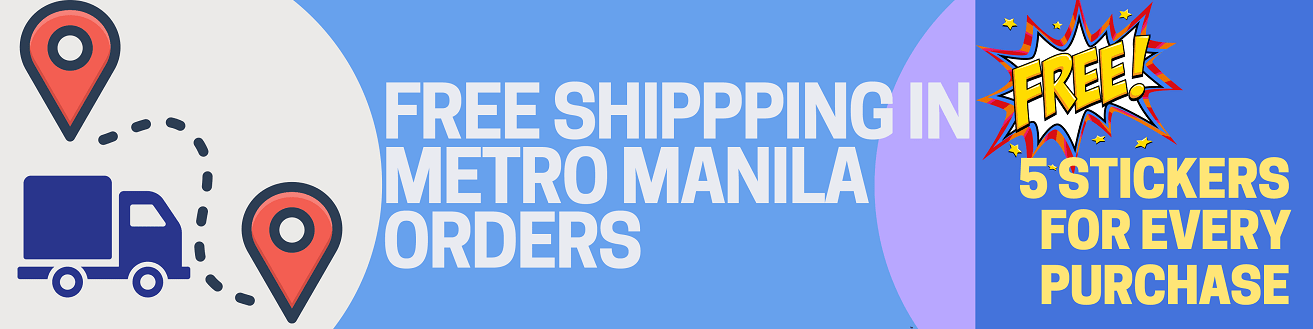
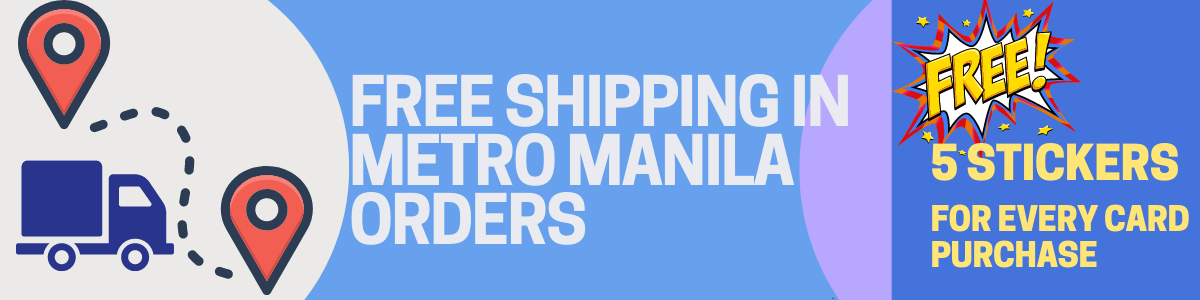
fathersday update

diff --git a/src/app/stickers/stickers.component.html b/src/app/stickers/stickers.component.html
@@ -4,9 +4,9 @@
 
             <div class="row">
                 <div class="col-md-12">
-                    <img src="/assets/images/sticker_banner1.png" class="img-fluid">
+                    <img src="/assets/images/sticker-banner-2.png" class="img-fluid">
                     <br/>
-                    <img src="/assets/images/sticker_banner2.png" class="img-fluid">
+                    <img src="/assets/images/sticker-sub-banner-2.png" class="img-fluid">
                     <br/>
                 </div>
 
@@ -50,10 +50,13 @@
                 <div class="col-12 text-center">
                     <label>{{batchShowing}}</label>
                 </div>
+                  <br />
+                  <br />
+                  <br />
             </div>
             <div class="row">
                 <div class="col-md-12">
-                    <img src="/assets/images/fathers/Free Shipping Banners-min.png">
+                    <img src="/assets/images/fathers/fs-sticker.png">
                 </div>
             </div>
 
@@ -64,12 +67,12 @@
             <div class="row">
                 <div class="col-md-6">
                     <a [routerLink]="['/events']">
-                    <img src="/assets/images/layout2/Sticker Landing_3-min.png">
+                    <img src="/assets/images//fathers/shop-cards.png">
                 </a>
                 </div>
                 <div class="col-md-6">
                     <a [routerLink]="['/gifts']">
-                    <img src="/assets/images/layout2/Sticker Landing_2-min.png">
+                    <img src="/assets/images/fathers/shop-gifts.png">
                 </a>
                 </div>
             </div>

diff --git a/src/app/events/events.component.html b/src/app/events/events.component.html
@@ -8,13 +8,15 @@
                         <img src="{{event.image}}" class="img-fluid">
                         <div class="title">{{event.name}}</div>
                     </div>
-                    <br/>
+                    <br />
+                    <br /> 
+                    <br />
                 </div>
             </div>
             <div class="row">
                 <div class="col-md-12">
                     <br/><br/>
-                    <img src="/assets/images/fathers/Free Shipping Banners-min.png" routerLink="/events" class="img-fluid cursor" style="margin-top:-50px">
+                    <img src="/assets/images/fathers/fs-event.png" routerLink="/events" class="img-fluid cursor" style="margin-top:-50px">
                 </div>
             </div>
 

diff --git a/src/assets/static/PressPage.html b/src/assets/static/PressPage.html
@@ -14,7 +14,7 @@
 <h3>Our Homepage 
 </h3>
 <div style="padding:20px;border:1px solid #ccc">
-<img src="/assets/images/static/ss-homepage.png" class="img-fluid mg-thumbnail">
+<img src="/assets/images/static/ss-homepage-2.png" class="img-fluid mg-thumbnail">
 </div>
 <br/><br/><hr/><br/><br/>
 <h3>Social Media Accounts
@@ -56,7 +56,7 @@
  
 </div>
 <div class="col-md-4 text-center">
-   <a href="https://www.instagram.com/fibeigreetings_/ target="_blank">
+   <a href="https://www.instagram.com/fibeigreetings_/"  target="_blank">
      <img src="/assets/images/static/sm-instagram.png" class="img-fluid mg-thumbnail">    <h3>Instagram</h3>
    </a>
 

diff --git a/src/app/cards/cards.component.html b/src/app/cards/cards.component.html
@@ -87,11 +87,11 @@
                 <div class="col-md-12 text-center">
                     <label>{{batchShowing}}</label>
                     <br />
-                    <br />
+                    <br />  <br />
                 </div>
                 <div class="col-md-12">
                     <br /><br />
-                    <img src="/assets/images/fathers/Free Shipping Banners-min.png" routerLink="/events"
+                    <img src="/assets/images/fathers/Free Shipping Banners-min-2.png" routerLink="/events"
                         class="img-fluid cursor" style="margin-top:-50px">
                 </div>
             </div>

diff --git a/src/app/pages/footer/footer.component.html b/src/app/pages/footer/footer.component.html
@@ -8,7 +8,7 @@
         <div class="px-2"><a [routerLink]="['/page/ReviewProduct']">Review Product</a></div>
         <br />
         <h5>KNOW MORE</h5>
-        <div class="px-2"><a [routerLink]="['/page/ReviewPrAboutUsoduct']">About FibeiGreetings</a></div>
+        <div class="px-2"><a [routerLink]="['/page/AboutUs']">About FibeiGreetings</a></div>
         <div class="px-2"><a [routerLink]="['/page/PressPage']">Press Page</a></div>
         <br />
         <h5>ORDER INFORMATION</h5>

diff --git a/src/app/modules/suggestion-list/suggestion-list.component.html b/src/app/modules/suggestion-list/suggestion-list.component.html
@@ -6,7 +6,7 @@
           <mat-icon>keyboard_arrow_left</mat-icon>
         </button>
       </div>
-      <div class="col-md-3" routerLink="{{'/card/' + displayCard!.id}}" *ngFor="let displayCard of displayCards">
+      <div class="col-md-3 cursor" routerLink="{{'/card/' + displayCard!.id}}" *ngFor="let displayCard of displayCards">
         <img class="img-thumbnail" src="{{displayCard?.imageUrl}}">
         <h5>{{displayCard?.name}}</h5>
       </div>

diff --git a/src/assets/static/ReviewProduct.html b/src/assets/static/ReviewProduct.html
@@ -14,7 +14,7 @@
 <div class="pl-2"><i class="fa fa-check"></i> When you find the product you want, click it to go to its page.</div>
 <div class="pl-2"><i class="fa fa-check"></i> Select "write your review" from the drop-down menu. (You will be asked to sign in.)</div>
 
-<img src="/assets/images/static/ss-search.png" class="img-fluid">
+<img src="/assets/images/static/ss-search-2.png" class="img-fluid">
 <p>
    Suggestions and Tips: 
 </p>

diff --git a/src/app/home/home.component.html b/src/app/home/home.component.html
@@ -115,7 +115,7 @@
             <div>
                 <div class="row">
                     <div class="col-md-12">
-                        <img src="/assets/images/fathers/Free Shipping Banners-min.png" class="img-fluid">
+                        <img src="/assets/images/fathers/Free Shipping Banners-min-2.png" class="img-fluid">
                         <br /> <br />
                     </div>
                 </div>

diff --git a/src/app/modules/suggestion-list/suggestion-list.component.scss b/src/app/modules/suggestion-list/suggestion-list.component.scss
@@ -1,0 +1,12 @@
+.cursor{
+    cursor: pointer;
+    opacity: 0.9;
+   
+    padding: 20px;
+}
+.cursor:active,
+.cursor:hover
+{
+    background: whitesmoke;
+    opacity:1;
+}
